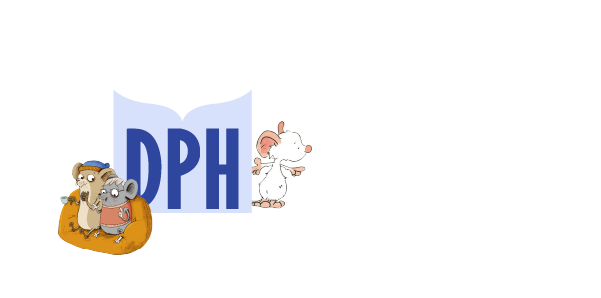
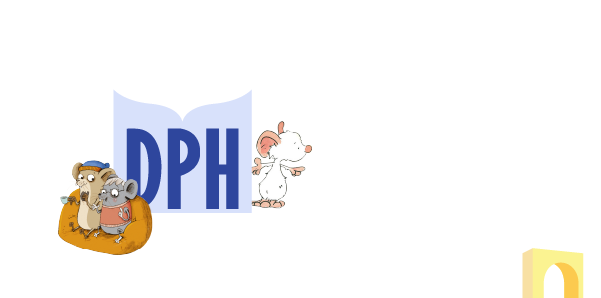
update images

Changed region(s): [[0.8686, 0.8154, 0.9884, 1.0]]

diff --git a/index.html b/index.html
@@ -9,15 +9,25 @@
   <style type="text/css">
     body {
       margin: 0;
+      padding:0;
     }
     table {
       border-spacing: 0;
+      border-collapse:collapse;
     }
     td {
       padding: 0;
+      border-collapse:collapse;
     }
     img {
-      border: 0;
+      border:0 none;
+      height:auto;
+      line-height:100%;
+      outline:none;
+      text-decoration:none;
+    }
+    p {
+      margin: 0;
     }
   </style>
 </head>
@@ -28,7 +38,7 @@
         <table cellpadding="0" cellspacing="0" border="0" align="center" width="600px">
           <tr>
             <td>
-              <!-- Header Section -->
+              <!---------------------- Header Section ------------------>
               <table cellpadding="0" cellspacing="0" border="0" width="100%">
                 <tr>
                   <td background="https://raw.githubusercontent.com/caphoto78/emailer/master/Assets/02_header.png" bgcolor="#ffffff" width="600" height="243" align="center">
@@ -48,21 +58,165 @@
                   
                 </tr>
               </table>
-
+              <!---------------------- Buna PRENUME ------------------>
               <table cellpadding="0" cellspacing="0" width="100%" border="0">
                 <tr>
-                  <td width="60px" style="min-width: 100%;">
+                  <td width="60px">
                   </td>
                   <td width="540px">
-                    <p style="font-family: Helvetica, sans-serif; font-weight: 700; font-size: 19px; color: #1B75BB"><em >Bună </em>PRENUME!</p>
-                  </td>
-                </tr>
-                <tr>
-                  <td>
-                    
+                    <p style="font-family: Helvetica, sans-serif; font-weight: 700; font-size: 19px; color: #1B75BB;"><em >Bună </em>PRENUME!</p>
                   </td>
                 </tr>
               </table>
+              <!---------------------- Stiai ca... ------------------>
+              <table cellpadding="0" cellspacing="0" border="0" background="https://raw.githubusercontent.com/caphoto78/emailer/master/Assets/03_baloon.png" bgcolor="#ffffff" width="600" height="149">
+                <tr>
+                  <td width="155px"></td>
+                  <td style="padding-top:14px;">
+                    <!--[if gte mso 9]>
+                    <v:rect xmlns:v="urn:schemas-microsoft-com:vml" fill="true" stroke="false" style="width:600px;height:149px;">
+                      <v:fill type="tile" src="https://raw.githubusercontent.com/caphoto78/emailer/master/Assets/03_baloon.png" color="#ffffff" />
+                      <v:textbox inset="0,0,0,0">
+                    <![endif]-->
+                    <p style="font-family: Helvetica, sans-serif; font-weight: 500; font-size: 18px; color: #0D344F">Știai că <b style="color: #F05A28"> lauda de sine</b> poate <br> să miroasă incredibil de bine?</p>
+                    <!--[if gte mso 9]>
+                      </v:textbox>
+                    </v:rect>
+                    <![endif]-->
+                  </td>
+                </tr>
+              </table>
+              <!---------------------- DPH ------------------>
+              <table cellpadding="0" cellspacing="0" width="100%" border="0">
+                <tr height="10px">
+                </tr>
+                <tr>
+                  <td background="https://raw.githubusercontent.com/caphoto78/emailer/master/Assets/04_sectionDPH.png" bgcolor="#F9F9F9" width="600" height="298" valign="top">
+                    <!--[if gte mso 9]>
+                    <v:rect xmlns:v="urn:schemas-microsoft-com:vml" fill="true" stroke="false" style="width:600px;height:298px;">
+                      <v:fill type="tile" src="https://raw.githubusercontent.com/caphoto78/emailer/master/Assets/04_sectionDPH.png" color="#F9F9F9" />
+                      <v:textbox inset="0,0,0,0">
+                    <![endif]-->
+                    <table cellpadding="0" cellspacing="0" width="100%">
+                      <tr height="20px"></tr>
+                      <tr>
+                        <td width="115px"></td>
+                        <td>
+                          <p style="font-family: Helvetica, sans-serif; font-weight: 500; line-height: 22px; font-size: 18px; color: #0D344F;">Astăzi vrem să ne lăudăm așadar cu <b style="color: #1B75BB">unul din cele mai noi proiecte Connect Media:</b></p>
+                        </td>
+                        <td width="120px"></td>
+                      </tr>
+                      <tr height="10px"></tr>
+                    </table>
+                    <table cellpadding="0" cellspacing="0" align="center">
+                      <tr>
+                        <td width="400px" height="2px" bgcolor="#AEAEAF"></td>
+                      </tr>
+                    </table>
+                    <table cellpadding="0" cellspacing="0" width="100%">
+                      <tr height="45px"></tr>
+                      <tr>
+                        <td width="325px"></td>
+                        <td>
+                          <p style="font-family: Helvetica, sans-serif; font-weight: 100; line-height: 18px; font-size: 16px; color: #2E469D;">colaborarea cu</p>
+                          <p style="font-family: Helvetica, sans-serif; font-weight: 700; line-height: 18px; font-size: 16px; color: #2E469D;">Didactica Publishing House</p><br>
+                          <p style="font-family: Helvetica, sans-serif; font-weight: 500; line-height: 18px; font-size: 16px; color: #424242;">una dintre editurile de top</p>
+                          <p style="font-family: Helvetica, sans-serif; font-weight: 500; line-height: 18px; font-size: 16px; color: #424242;">din România, și un client cu o</p>
+                          <p style="font-family: Helvetica, sans-serif; font-weight: 500; line-height: 18px; font-size: 16px; color: #424242;">misiune foarte importantă.</p>
+                        </td>
+                      </tr>
+                    </table>
+                    <!--[if gte mso 9]>
+                      </v:textbox>
+                    </v:rect>
+                    <![endif]-->
+                  </td>
+                </tr>
+              </table>
+              
+              <!---------------------- 2 columns ------------------>
+              <table cellpadding="0" cellspacing="0" width="100%" style="position: relative;">
+                <tr>
+                  <td>
+                    <table cellpadding="0" cellspacing="0" width="100%" style="position: absolute; top: -50px;">
+                      <tr>
+                        <td>
+                          <!---------------------- First column - text ------------------>
+                          <table cellpadding="0" cellspacing="0" width="255px" style="display: inline-block;">
+                            <tr>
+                              <td>
+                                <table cellpadding="0" cellspacing="0" width="100%" bgcolor="#2E469D">
+                                  <tr height="30px"></tr>
+                                  <tr>
+                                    <td width="60px">
+                                    </td>
+                                    <td>
+                                      <p style="font-family: Helvetica, sans-serif; font-weight: 500; line-height: 20px; font-size: 16px; color: #ffffff;">Vrei să știi care e</p>
+                                      <p style="font-family: Helvetica, sans-serif; font-weight: 500; line-height: 20px; font-size: 16px; color: #ffffff;">misiunea aceasta?</p>
+                                    </td>
+                                  </tr>
+                                  <tr height="10px"></tr>
+                                  <tr>
+                                    <td height="33px" style="position: relative;">
+                                      <img style="position: absolute; top:0; left: -1px;" src="https://raw.githubusercontent.com/caphoto78/emailer/master/Assets/06_img1.png" alt="img1">
+                                    </td>
+                                  </tr>
+                                </table>
+                                <table cellpadding="0" cellspacing="0" width="100%" bgcolor="#E6E6E6">
+                                  <tr height="30px"></tr>
+                                  <tr>
+                                    <td rowspan=2 width="60px" align="center" style="vertical-align: bottom;">
+                                      <img align="center" src="https://raw.githubusercontent.com/caphoto78/emailer/master/Assets/07_img2.png" alt="">
+                                    </td>
+                                    <td>
+                                      <p style="font-family: Helvetica, sans-serif; font-weight: 500; line-height: 20px; font-size: 16px; color: #2E469D;">Vrei să afli ce am făcut</p>
+                                      <p style="font-family: Helvetica, sans-serif; font-weight: 500; line-height: 20px; font-size: 16px; color: #2E469D;">pentru DPH</p>
+                                      <p style="font-family: Helvetica, sans-serif; font-weight: 500; line-height: 20px; font-size: 16px; color: #2E469D;">(pentru prieteni și fani)?</p>
+                                    </td>
+                                  </tr>
+                                  <tr height="20px">
+                                  </tr>
+                                </table>
+            
+                                <table cellpadding="0" cellspacing="0" width="100%" bgcolor="#2E469D">
+                                  <tr height="30px"></tr>
+                                  <tr>
+                                    <td rowspan=2 width="60px" style="vertical-align: bottom;">
+                                      <img src="https://raw.githubusercontent.com/caphoto78/emailer/master/Assets/08_img3.png" alt="">
+                                    </td>
+                                    <td>
+                                      <p style="font-family: Helvetica, sans-serif; font-weight: 500; line-height: 20px; font-size: 16px; color: #ffffff;">Vrei să vezi cât de frumos</p>
+                                      <p style="font-family: Helvetica, sans-serif; font-weight: 500; line-height: 20px; font-size: 16px; color: #ffffff;">merge un proiect când are</p>
+                                      <p style="font-family: Helvetica, sans-serif; font-weight: 500; line-height: 20px; font-size: 16px; color: #ffffff;">o fundație solidă?</p>
+                                    </td>
+                                  </tr>
+                                  <tr height="30px">
+                                    <td></td>
+                                    <td></td>
+                                  </tr>
+                                </table>
+                              </td>
+                            </tr>
+                          </table>
+                          <!---------------------- Second Column - The girl ------------------>
+                          <table cellpadding="0" cellspacing="0" width="340px" style="display: inline-block;">
+                            <tr>
+                              <td>
+                                <img width="344px" style="max-width: 344px;" src="https://raw.githubusercontent.com/caphoto78/emailer/master/Assets/05_girl.png" alt="">
+                              </td>
+                            </tr>
+                          </table>
+                        </td>
+                      </tr>
+                    </table>
+                    
+                  </td>
+                </tr>
+
+              </table>
+              
+
+              <!---------------------- Footer ------------------>
             </td>
           </tr>
         </table>
